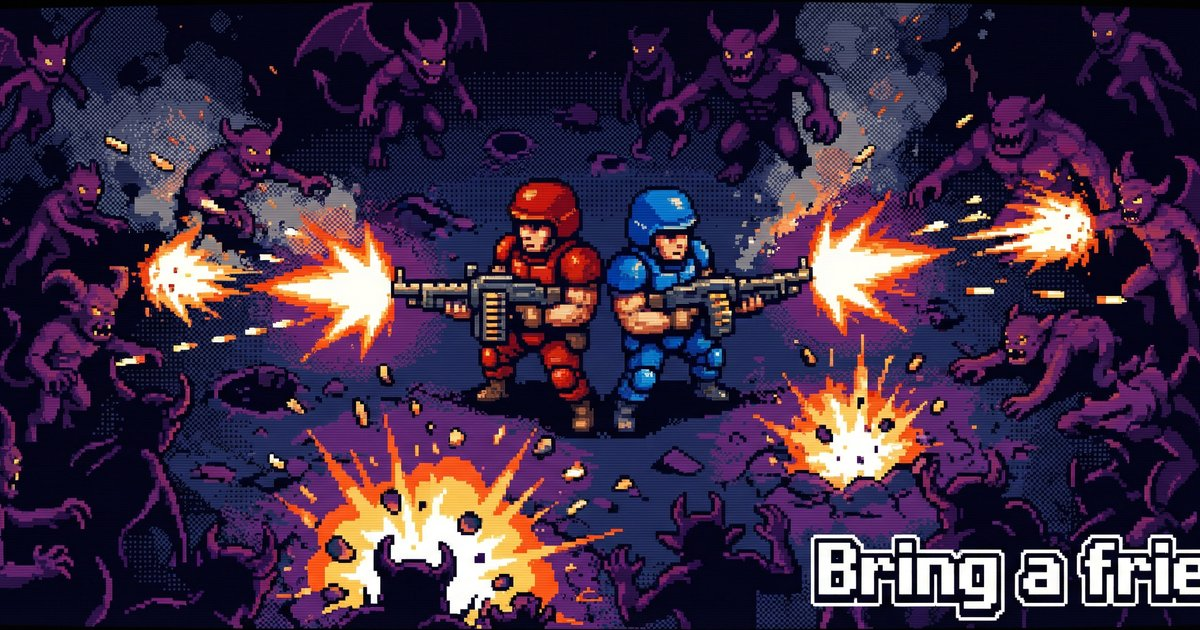
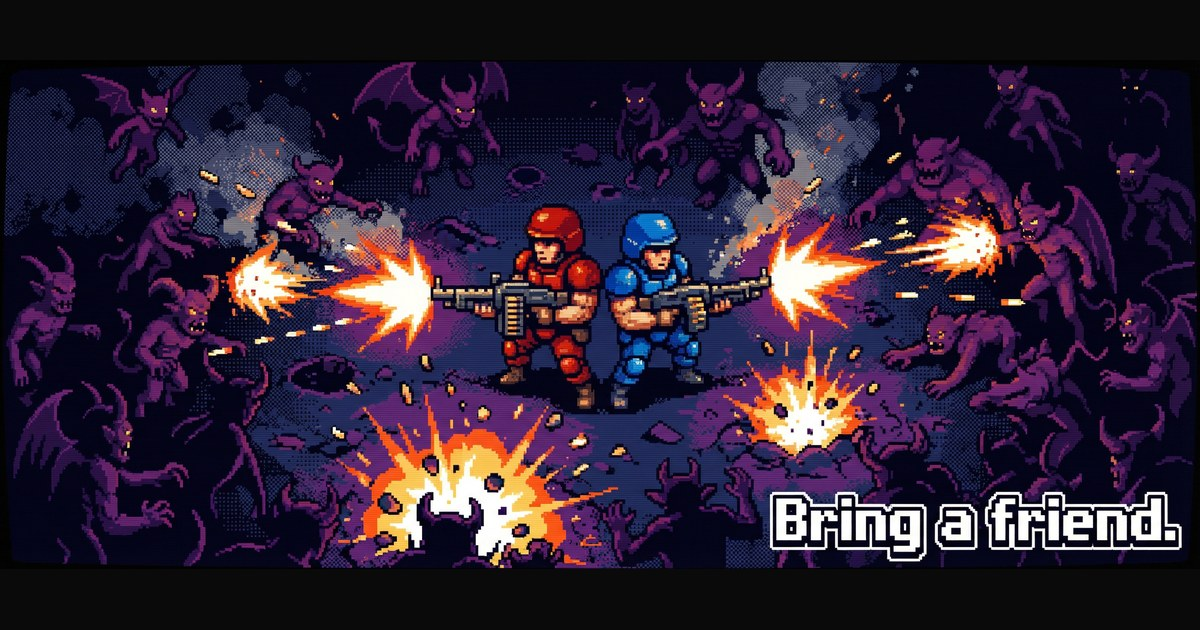
fix(docs): OG 이미지 경로 이중 baseurl 수정 + letterbox 재생성
경로 버그:
- page.image에 /bloodshed-mod-toolkit/ 포함 → jekyll-seo-tag가
  site.baseurl을 한 번 더 붙여 이중 경로 발생
- 수정: page.image 값을 /images/og_*.jpg 로 단순화
  (jekyll-seo-tag / json-ld.html 모두 site.url+baseurl+image 로 조립)
- _config.yml defaults, overview/*/features/* front matter, json-ld.html 수정

OG 이미지 letterbox 재생성:
- 이전: 중앙 크롭 → 원본 구성 일부 잘림
- 수정: 비율 유지 스케일(1200x509) + #0a0a0a 상하 패딩 → 1200x630
  og_banner_hero.jpg 195KB, og_banner_coop.jpg 184KB, og_banner_power.jpg 144KB

diff --git a/docs/_includes/json-ld.html b/docs/_includes/json-ld.html
@@ -14,9 +14,9 @@
 
 {%- comment -%} Page OG image (absolute URL) {%- endcomment -%}
 {%- if page.image -%}
-  {%- assign _og_img = page.image | prepend: site.url -%}
+  {%- assign _og_img = page.image | prepend: site.baseurl | prepend: site.url -%}
 {%- else -%}
-  {%- assign _og_img = "/images/banner_hero.png" | prepend: site.baseurl | prepend: site.url -%}
+  {%- assign _og_img = "/images/og_banner_hero.jpg" | prepend: site.baseurl | prepend: site.url -%}
 {%- endif -%}
 
 {%- comment -%} Domain label for BreadcrumbList {%- endcomment -%}

diff --git a/Plugin.cs b/Plugin.cs
@@ -71,6 +71,6 @@ namespace BloodshedModToolkit
     {
         public const string PLUGIN_GUID    = "com.bloodshed.modtoolkit";
         public const string PLUGIN_NAME    = "Bloodshed Mod Toolkit";
-        public const string PLUGIN_VERSION = "1.0.161";
+        public const string PLUGIN_VERSION = "1.0.162";
     }
 }

diff --git a/docs/features/ja.md b/docs/features/ja.md
@@ -4,7 +4,7 @@ description: >-
   全機能リスト: 無敵モード、ジェム無限、移動速度倍率、Steam 4人Co-op、
   5プリセット・9バランススライダー、AIボット、ホットキー。
 lang: ja
-image: /bloodshed-mod-toolkit/images/og_banner_power.jpg
+image: /images/og_banner_power.jpg
 ---
 
 # 機能

diff --git a/docs/features/ko.md b/docs/features/ko.md
@@ -4,7 +4,7 @@ description: >-
   전체 기능 목록: 무적 모드, 무한 젬, 이동속도 배율, Steam 4인 코-업,
   5가지 난이도 프리셋, 9개 밸런스 슬라이더, AI 봇, 단축키.
 lang: ko
-image: /bloodshed-mod-toolkit/images/og_banner_power.jpg
+image: /images/og_banner_power.jpg
 ---
 
 # 기능

diff --git a/docs/overview/ja.md b/docs/overview/ja.md
@@ -4,7 +4,7 @@ description: >-
   Bloodshed Modツールキット: 無敵モード、ジェム無限、Steam P2P 4人Co-op、
   難易度トウィーク、AIボット。F5一発で全部。
 lang: ja
-image: /bloodshed-mod-toolkit/images/og_banner_hero.jpg
+image: /images/og_banner_hero.jpg
 ---
 
 # Bloodshed Mod Toolkit

diff --git a/docs/features/zh-CN.md b/docs/features/zh-CN.md
@@ -4,7 +4,7 @@ description: >-
   完整功能列表: 无敌模式、无限宝石、移速倍率、Steam 4人联机、
   5个难度预设、9个平衡滑块、AI机器人、快捷键。
 lang: zh-CN
-image: /bloodshed-mod-toolkit/images/og_banner_power.jpg
+image: /images/og_banner_power.jpg
 ---
 
 # 功能

diff --git a/docs/overview/zh-CN.md b/docs/overview/zh-CN.md
@@ -4,7 +4,7 @@ description: >-
   Bloodshed Mod工具集: 无敌模式、无限宝石、Steam P2P 4人联机、
   难度调整、AI机器人。一键F5全搞定。
 lang: zh-CN
-image: /bloodshed-mod-toolkit/images/og_banner_hero.jpg
+image: /images/og_banner_hero.jpg
 ---
 
 # Bloodshed Mod Toolkit

diff --git a/docs/features/en.md b/docs/features/en.md
@@ -4,7 +4,7 @@ description: >-
   Full feature list: God Mode, infinite gems, speed hack, 4-player Steam co-op,
   5 difficulty presets, 9 balance sliders, AI bots, hotkeys.
 lang: en
-image: /bloodshed-mod-toolkit/images/og_banner_power.jpg
+image: /images/og_banner_power.jpg
 ---
 
 # Features

diff --git a/docs/overview/en.md b/docs/overview/en.md
@@ -4,7 +4,7 @@ description: >-
   Bloodshed mod toolkit: God Mode, infinite gems, 4-player Steam P2P co-op,
   difficulty tweaks, AI bots. All in one F5 keypress.
 lang: en
-image: /bloodshed-mod-toolkit/images/og_banner_hero.jpg
+image: /images/og_banner_hero.jpg
 ---
 
 # Bloodshed Mod Toolkit

diff --git a/docs/overview/ko.md b/docs/overview/ko.md
@@ -4,7 +4,7 @@ description: >-
   Bloodshed 모드 툴킷: 무적 모드, 무한 젬, Steam P2P 4인 코-업,
   난이도 트윅, AI 봇. F5 하나로 전부.
 lang: ko
-image: /bloodshed-mod-toolkit/images/og_banner_hero.jpg
+image: /images/og_banner_hero.jpg
 ---
 
 # Bloodshed Mod Toolkit
